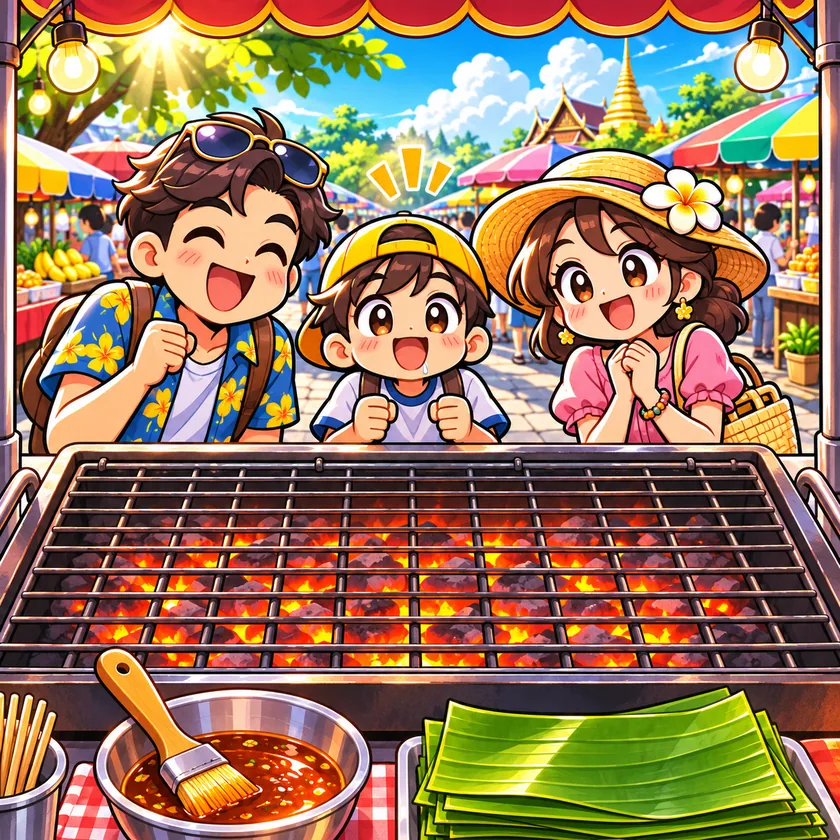
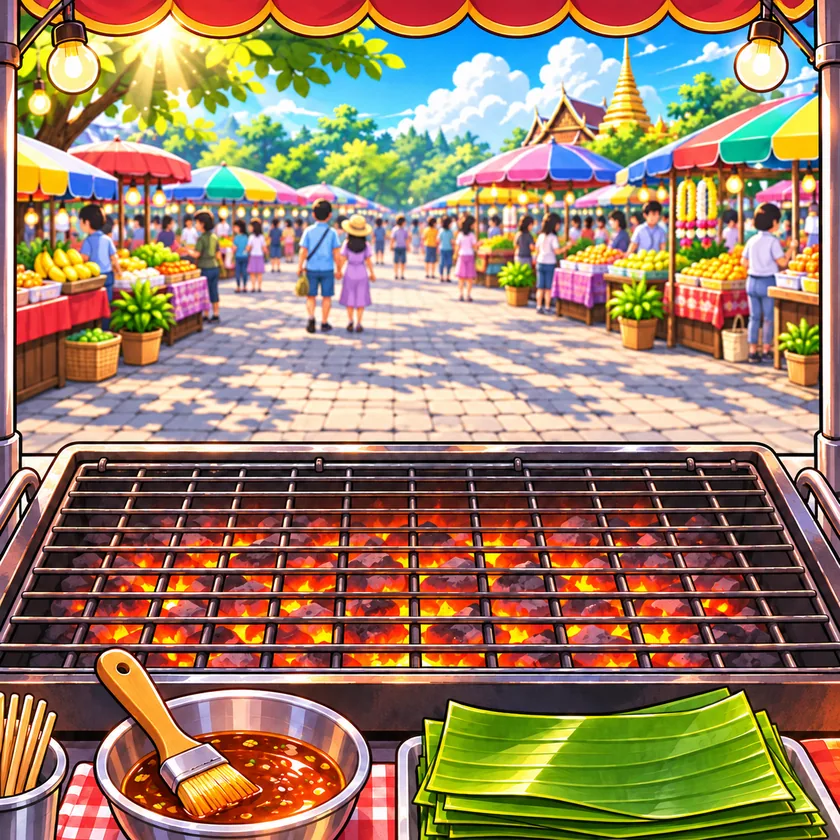
Moo Ping: layered market scene with 3 reacting customers (wait / happy / smoke)
Claude-Session: https://claude.ai/code/session_01NT2qrJy6Sx6CNpdimZkqu3

diff --git a/index.html b/index.html
@@ -187,6 +187,16 @@ svg.newrail .barrier{display:none}
 .c3d{position:absolute;inset:0;width:100%!important;height:100%!important;pointer-events:none;z-index:2}
 .mg-art{display:block;place-items:initial}
 .gr-stage{pointer-events:auto}
+.gr-fg{position:absolute;inset:0;width:100%;height:100%;pointer-events:none}
+.gr-cu{position:absolute;bottom:42%;height:39%;aspect-ratio:41/40;transform:translateX(-50%);pointer-events:none;animation:grBob 1.6s ease-in-out infinite alternate}
+.gr-cu img{position:absolute;inset:0;width:100%;height:100%;object-fit:contain;object-position:bottom;opacity:0;transition:opacity .12s}
+.gr-cu[data-m="wait"] img.wait,.gr-cu[data-m="yum"] img.yum,.gr-cu[data-m="ugh"] img.ugh{opacity:1}
+.gr-cu[data-m="yum"]{animation:grJump .35s ease-out}
+.gr-cu[data-m="ugh"]{animation:grShake .3s ease-in-out}
+@keyframes grBob{to{transform:translate(-50%,-2%)}}
+@keyframes grJump{40%{transform:translate(-50%,-9%)}}
+@keyframes grShake{25%{transform:translate(-53%,0)}75%{transform:translate(-47%,0)}}
+@media (prefers-reduced-motion:reduce){.gr-cu,.gr-cu[data-m]{animation:none}}
 .gr-slot{position:absolute;top:50%;height:47%;width:17.5%;transform:translateX(-50%);background:none;border:0;padding:0;touch-action:none;cursor:pointer;-webkit-tap-highlight-color:transparent}
 .gr-sk{position:absolute;left:50%;top:0;height:80%;aspect-ratio:181/420;transform:translateX(-50%);transition:transform .2s;filter:drop-shadow(0 3px 2px rgba(0,0,0,.45))}
 .gr-sk img{position:absolute;inset:0;width:100%;height:100%;pointer-events:none}
@@ -3241,7 +3251,7 @@ async function playMini(eyebrow,stake,forceK,practice){
 }
 // นับถอยหลังแล้วคืน promise ที่จบเมื่อหมดเวลา
 function mgClock(sec,onTick){ const t0=performance.now(); return new Promise(r=>{ const iv=setInterval(()=>{ const left=sec-(performance.now()-t0)/1000; onTick(left); if(left<=0){ clearInterval(iv); r(); } },100); onTick(sec); }); }
-const MG_IMG={grill:["minigame/grill_bg.webp","minigame/grill_smoke.webp","minigame/grill_yum.webp",...["raw","half","done","burnt"].map(u=>`minigame/moo_${u}.webp`)],mosq:["minigame/mosq_bg.webp","minigame/mosq.webp","minigame/mosq_hit.webp"],splash:["minigame/splash_bg.webp","minigame/granny.webp",...["A01","A02","A03","A04","A05","A06","A07","A08"].map(a=>`avatars/${a}_face.webp`)],tea:["minigame/tea_bg.webp","minigame/tea_filter_idle.webp","minigame/tea_cup.webp","minigame/tea_filter.webp"],somtam:["minigame/somtam_bg.webp","minigame/somtam_mortar.webp","minigame/somtam_mortar_mess.webp","minigame/somtam_pestle.webp"]};
+const MG_IMG={grill:["minigame/grill_bg.webp","minigame/grill_fg.webp",...["a","b","c"].flatMap(c=>["wait","yum","ugh"].map(m=>`minigame/cust_${c}_${m}.webp`)),"minigame/grill_smoke.webp","minigame/grill_yum.webp",...["raw","half","done","burnt"].map(u=>`minigame/moo_${u}.webp`)],mosq:["minigame/mosq_bg.webp","minigame/mosq.webp","minigame/mosq_hit.webp"],splash:["minigame/splash_bg.webp","minigame/granny.webp",...["A01","A02","A03","A04","A05","A06","A07","A08"].map(a=>`avatars/${a}_face.webp`)],tea:["minigame/tea_bg.webp","minigame/tea_filter_idle.webp","minigame/tea_cup.webp","minigame/tea_filter.webp"],somtam:["minigame/somtam_bg.webp","minigame/somtam_mortar.webp","minigame/somtam_mortar_mess.webp","minigame/somtam_pestle.webp"]};
 function mgPreload(k){ (MG_IMG[k]||[]).forEach(u=>{ const i=new Image(); i.src=u; }); }
 async function mgSomtam(ar,goal,score,tick){
   let n=0, live=true, messy=false;
@@ -3309,14 +3319,16 @@ async function mgMosq(ar,goal,score,tick,lv=0){
 }
 // ปิ้งหมูปิ้ง: 5 ไม้ ความเร็วสุกไม่เท่ากัน · แตะ 1 = พลิก, แตะ 2 = เก็บ · ด้านไหนเกิน BURN = ไหม้ทิ้ง
 const GR={lo:.5,hi:1,burn:1.4,side:2.7};
-const GR_IMG=["raw","half","done","burnt"], GR_KEY=[0,.38,.75,1.4];   // ภาพสุกพอดีอยู่กลางช่องเขียว
+const GR_CUST=["a","b","c"], GR_IMG=["raw","half","done","burnt"], GR_KEY=[0,.38,.75,1.4];   // ภาพสุกพอดีอยู่กลางช่องเขียว
 const grCol=v=>{ const st=[[0,[242,160,160]],[GR.lo,[214,138,52]],[GR.hi,[158,88,30]],[GR.burn,[34,22,18]]]; v=Math.max(0,Math.min(GR.burn,v));
   for(let i=1;i<st.length;i++) if(v<=st[i][0]){ const [a,ca]=st[i-1],[b,cb]=st[i],t=(v-a)/(b-a); return `rgb(${ca.map((x,j)=>Math.round(x+(cb[j]-x)*t)).join(",")})`; } return "rgb(34,22,18)"; };
 async function mgGrill(ar,goal,score,tick,lv=0){
   let n=0, live=true, last=performance.now(); score(0,`0 / ${goal}`);
   ar.classList.add("mg-art");
-  ar.innerHTML=`<div class="tc-stage gr-stage"><img class="st-bg" src="minigame/grill_bg.webp" alt="">${[0,1,2,3,4].map(k=>`<button class="gr-slot empty" data-k="${k}" style="left:${14.5+17.75*k}%" aria-label="${esc(T("หมูปิ้งไม้ที่ {n}",{n:k+1}))}"><span class="gr-dot"></span><span class="gr-sk">${GR_IMG.map(u=>`<img src="minigame/moo_${u}.webp" alt="">`).join("")}</span><span class="gr-bar"><i></i></span><span class="gr-ic"></span></button>`).join("")}</div>`;
+  ar.innerHTML=`<div class="tc-stage gr-stage"><img class="st-bg" src="minigame/grill_bg.webp" alt="">${GR_CUST.map((c,i)=>`<div class="gr-cu" data-m="wait" style="left:${[21,50,79][i]}%">${["wait","yum","ugh"].map(m=>`<img class="${m}" src="minigame/cust_${c}_${m}.webp" alt="">`).join("")}</div>`).join("")}<img class="gr-fg" src="minigame/grill_fg.webp" alt="">${[0,1,2,3,4].map(k=>`<button class="gr-slot empty" data-k="${k}" style="left:${14.5+17.75*k}%" aria-label="${esc(T("หมูปิ้งไม้ที่ {n}",{n:k+1}))}"><span class="gr-dot"></span><span class="gr-sk">${GR_IMG.map(u=>`<img src="minigame/moo_${u}.webp" alt="">`).join("")}</span><span class="gr-bar"><i></i></span><span class="gr-ic"></span></button>`).join("")}</div>`;
   const slots=[...ar.querySelectorAll(".gr-slot")].map((el,k)=>({el,k,st:0,a:0,b:0,rate:1,wait:.2+k*.55}));   // st: 0 ว่าง, 1 ด้านแรก, 2 ด้านสอง
+  const cus=[...ar.querySelectorAll(".gr-cu")], cusTo=[];
+  const react=(k,m)=>{ const c=k<=1?0:k===2?1:2, el=cus[c]; el.dataset.m="wait"; void el.offsetWidth; el.dataset.m=m; clearTimeout(cusTo[c]); cusTo[c]=setTimeout(()=>{ el.dataset.m="wait"; },1100); };   // ลูกค้าคนที่ยืนตรงไม้นั้นทำหน้า
   const fx=(s,u)=>{ const d=document.createElement("img"); d.className="gr-fx"; d.src=`minigame/grill_${u}.webp`; d.alt=""; s.el.appendChild(d); setTimeout(()=>d.remove(),700); };
   const popup=(s,txt,cls)=>{ const d=document.createElement("span"); d.className="gr-pop "+cls; d.textContent=txt; s.el.appendChild(d); setTimeout(()=>d.remove(),700); };
   const clear=(s,wait)=>{ s.st=0; s.wait=wait; s.el.className="gr-slot empty"; };
@@ -3328,20 +3340,20 @@ async function mgGrill(ar,goal,score,tick,lv=0){
   const good=v=>v>=GR.lo&&v<=GR.hi;
   slots.forEach(s=>s.el.addEventListener("pointerdown",e=>{ e.preventDefault(); if(!live||!s.st) return;
     if(s.st===1){ s.st=2; s.el.classList.add("flip","s2"); sfx("pop"); draw(s); return; }
-    if(good(s.a)&&good(s.b)){ n++; score(n,`${n} / ${goal}`); popup(s,"+1","good"); fx(s,"yum"); sfx("land"); }
-    else { popup(s,T(s.a>GR.hi||s.b>GR.hi?"ไหม้!":"ดิบ!"),"bad"); sfx("wrong"); }
+    if(good(s.a)&&good(s.b)){ n++; score(n,`${n} / ${goal}`); popup(s,"+1","good"); fx(s,"yum"); react(s.k,"yum"); sfx("land"); }
+    else { popup(s,T(s.a>GR.hi||s.b>GR.hi?"ไหม้!":"ดิบ!"),"bad"); react(s.k,"ugh"); sfx("wrong"); }
     clear(s,.35);
   },{passive:false}));
   const loop=now=>{ if(!live) return; const dt=Math.min(.1,(now-last)/1000); last=now;
     for(const s of slots){
       if(!s.st){ s.wait-=dt; if(s.wait<=0){ fresh(s); draw(s); } continue; }
       if(s.st===1) s.a+=s.rate*dt; else s.b+=s.rate*dt;
-      if((s.st===1?s.a:s.b)>=GR.burn){ popup(s,T("ไหม้!"),"bad"); fx(s,"smoke"); sfx("wrong"); clear(s,.6); continue; }
+      if((s.st===1?s.a:s.b)>=GR.burn){ popup(s,T("ไหม้!"),"bad"); fx(s,"smoke"); react(s.k,"ugh"); sfx("wrong"); clear(s,.6); continue; }
       draw(s);
     }
     requestAnimationFrame(loop); };
   requestAnimationFrame(loop);
-  await mgClock(20,tick); live=false;
+  await mgClock(20,tick); live=false; cusTo.forEach(clearTimeout);
   return {ok:n>=goal,text:T("เก็บหมูปิ้งได้ {n} ไม้ (เป้า {g})",{n,g:goal})};
 }
 // หน้าต่าง 9 ช่องบนภาพตึกแถว (ตำแหน่งเป็น % ของภาพสี่เหลี่ยมจัตุรัส)
